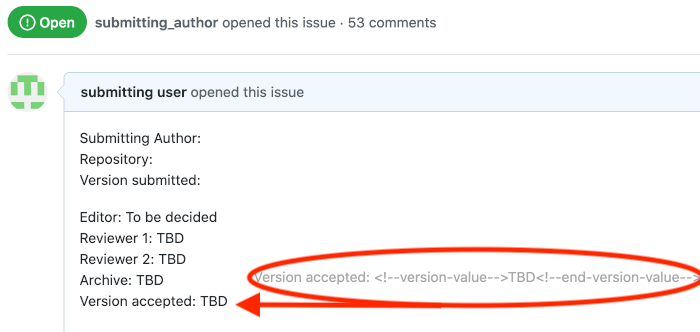
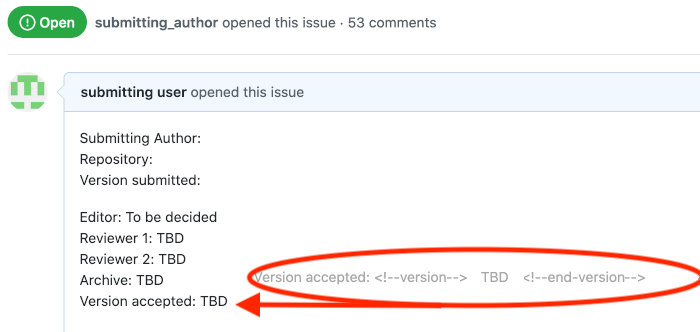
simplyfy value html comments

Changed region(s): [[0.63, 0.8133, 1.0, 0.8735]]

diff --git a/spec/responders/set_value_responder_spec.rb b/spec/responders/set_value_responder_spec.rb
@@ -29,12 +29,12 @@ describe SetValueResponder do
       @msg = "@botsci set v0.0.33-alpha as version"
       @responder.match_data = @responder.event_regex.match(@msg)
 
-      issue_body = "...Latest Version: <!--version-value-->Pending<!--end-version-value--> ..."
+      issue_body = "...Latest Version: <!--version-->Pending<!--end-version--> ..."
       allow(@responder).to receive(:issue_body).and_return(issue_body)
     end
 
     it "should update value in the body of the issue" do
-      expected_new_body = "...Latest Version: <!--version-value-->v0.0.33-alpha<!--end-version-value--> ..."
+      expected_new_body = "...Latest Version: <!--version-->v0.0.33-alpha<!--end-version--> ..."
       expect(@responder).to receive(:update_issue).with({ body: expected_new_body })
       @responder.process_message(@msg)
     end

diff --git a/app/responders/set_value_responder.rb b/app/responders/set_value_responder.rb
@@ -10,8 +10,8 @@ class SetValueResponder < Responder
   end
 
   def process_message(message)
-    mark = "<!--#{name}-value-->"
-    end_mark = "<!--end-#{name}-value-->"
+    mark = "<!--#{name}-->"
+    end_mark = "<!--end-#{name}-->"
 
     new_value = @match_data[1]
 

diff --git a/docs/responders/set_value.md b/docs/responders/set_value.md
@@ -19,11 +19,11 @@ For example, if you configure this responder to change the value of the _version
 The body of the issue should have the target field placeholder marked with HTML comments.
 
 ```html
-<!--<name>-value-->  <!--end-<name>-value-->
+<!--<name>-->  <!--end-<name>-->
 ```
 Following the previous example if the name of the field is _version_:
 ```html
-<!--version-value-->  <!--end-version-value-->
+<!--version-->  <!--end-version-->
 ```
 
 ## Settings key
